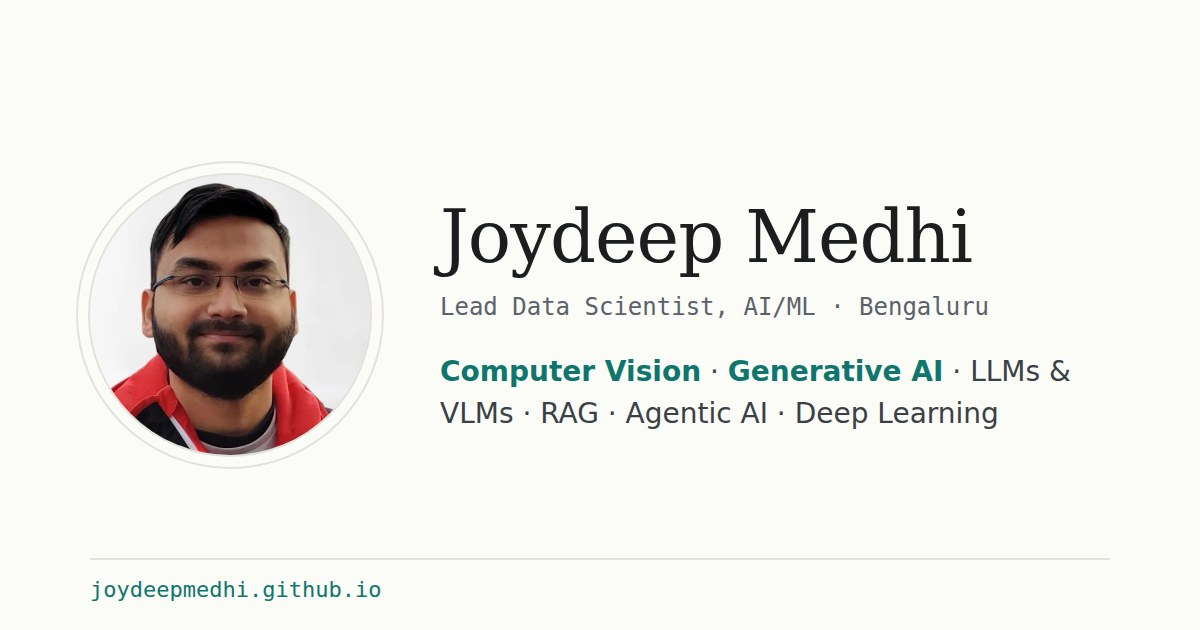
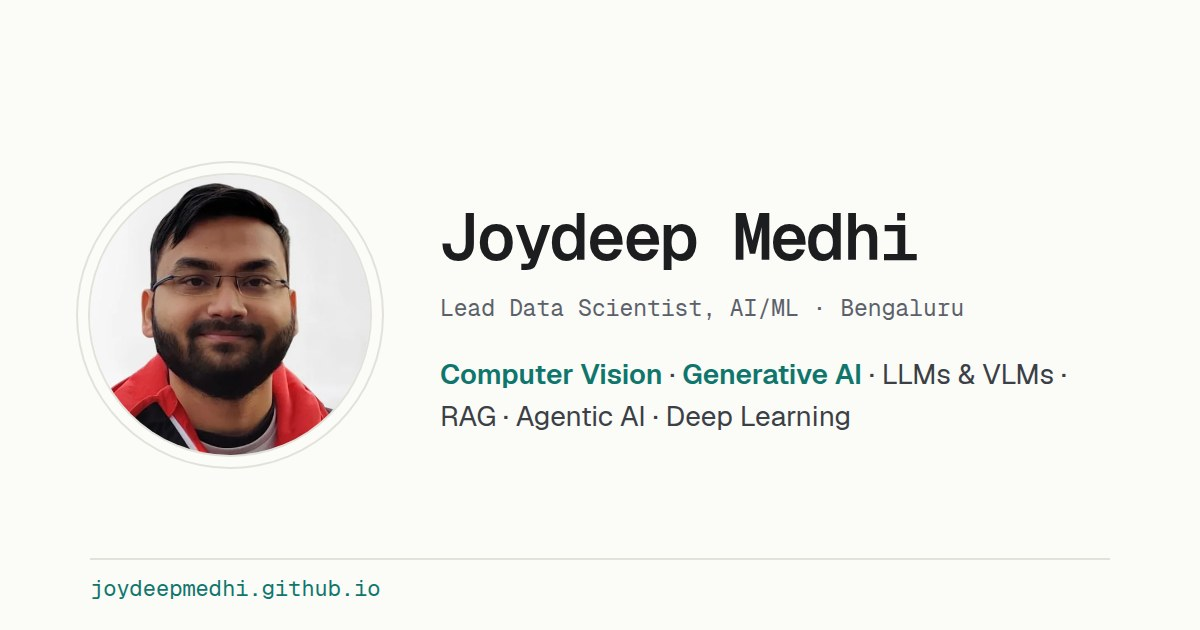
Correct Lowe's details and switch to Geist typography
- Homepage/resume: Lowe's Companies, Inc. (not Innovation Labs) and
  $100M+ business impact
- Type: Geist Mono for headings, wordmark, meta and code; Geist Sans for
  body text. Long list and publication titles stay in Geist Sans for
  readability; display sizes reduced to suit the wider monospace face
- Share card, favicon and app icon redrawn in Geist Mono

Claude-Session: https://claude.ai/code/session_01H8NSv6UnysrgXmKs2veWM4

Changed region(s): [[0.3392, 0.3317, 0.8325, 0.5127], [0.37, 0.573, 0.8942, 0.6937], [0.0617, 0.9048, 0.3083, 0.9651]]

diff --git a/_sass/_tokens.scss b/_sass/_tokens.scss
@@ -41,17 +41,19 @@
 }
 
 :root {
-  --font-serif: "Newsreader", "Iowan Old Style", Georgia, serif;
-  --font-sans: "Inter", system-ui, -apple-system, "Segoe UI", Roboto, sans-serif;
-  --font-mono: "JetBrains Mono", ui-monospace, SFMono-Regular, Menlo, monospace;
+  // Geist superfamily: Geist Mono gives headings a technical, CS character;
+  // Geist Sans keeps long-form reading comfortable.
+  --font-display: "Geist Mono", ui-monospace, SFMono-Regular, Menlo, monospace;
+  --font-sans: "Geist", system-ui, -apple-system, "Segoe UI", Roboto, sans-serif;
+  --font-mono: "Geist Mono", ui-monospace, SFMono-Regular, Menlo, monospace;
 
   --text-xs: 0.78rem;
   --text-sm: 0.88rem;
   --text-base: 1.0625rem;
   --text-lg: 1.2rem;
-  --text-xl: 1.55rem;
-  --text-2xl: 2.1rem;
-  --text-3xl: 2.8rem;
+  --text-xl: 1.4rem;
+  --text-2xl: 1.9rem;
+  --text-3xl: 2.35rem;
 
   --space-1: 0.25rem;
   --space-2: 0.5rem;

diff --git a/_layouts/default.html b/_layouts/default.html
@@ -26,7 +26,7 @@
   <link rel="alternate" type="application/atom+xml" title="{{ site.title }} - Blog" href="{{ '/feed.xml' | relative_url }}">
   <link rel="preconnect" href="https://fonts.googleapis.com">
   <link rel="preconnect" href="https://fonts.gstatic.com" crossorigin>
-  <link href="https://fonts.googleapis.com/css2?family=Inter:wght@400;500;600&family=JetBrains+Mono:wght@400;500&family=Newsreader:opsz,wght@6..72,400;6..72,500;6..72,600&display=swap" rel="stylesheet">
+  <link href="https://fonts.googleapis.com/css2?family=Geist:wght@400;500;600&family=Geist+Mono:wght@400;500;600&display=swap" rel="stylesheet">
   <link rel="stylesheet" href="{{ '/assets/css/main.css' | relative_url }}">
 
   {% include google-analytics.html %}

diff --git a/_sass/_pages.scss b/_sass/_pages.scss
@@ -107,7 +107,10 @@
   h2,
   h3 {
     margin: 0 0 var(--space-1);
-    font-size: 1.35rem;
+    font-family: var(--font-sans);
+    font-size: 1.25rem;
+    font-weight: 600;
+    letter-spacing: -0.01em;
   }
 
   .post-link {
@@ -144,8 +147,8 @@
 
   .post-title {
     margin-bottom: var(--space-3);
-    font-size: var(--text-3xl);
-    line-height: 1.12;
+    font-size: var(--text-2xl);
+    line-height: 1.2;
   }
 
   .post-description {
@@ -188,7 +191,7 @@
 
   h2 {
     margin-top: var(--space-8);
-    font-size: 1.75rem;
+    font-size: 1.5rem;
   }
 
   h3 {

diff --git a/_sass/_layout.scss b/_sass/_layout.scss
@@ -51,10 +51,10 @@
 }
 
 .wordmark {
-  font-family: var(--font-serif);
-  font-size: 1.3rem;
-  font-weight: 500;
-  letter-spacing: -0.01em;
+  font-family: var(--font-display);
+  font-size: 1.05rem;
+  font-weight: 600;
+  letter-spacing: -0.03em;
   color: var(--text);
   text-decoration: none;
   white-space: nowrap;

diff --git a/_sass/_components.scss b/_sass/_components.scss
@@ -205,9 +205,9 @@
 
   h3 {
     margin: 0 0 var(--space-2);
-    font-family: var(--font-serif);
-    font-size: 1.28rem;
-    font-weight: 500;
+    font-family: var(--font-sans);
+    font-size: 1.15rem;
+    font-weight: 600;
     line-height: 1.35;
 
     a {

diff --git a/_sass/_base.scss b/_sass/_base.scss
@@ -40,9 +40,9 @@ h4 {
 
 h1,
 h2 {
-  font-family: var(--font-serif);
-  font-weight: 500;
-  letter-spacing: -0.01em;
+  font-family: var(--font-display);
+  font-weight: 600;
+  letter-spacing: -0.035em;
 }
 
 h1 {

diff --git a/index.md b/index.md
@@ -28,8 +28,8 @@ description: "Lead Data Scientist in Bengaluru building Computer Vision and Gene
 <section class="section prose" aria-labelledby="about">
   <h2 class="section-title" id="about">About</h2>
   <p>
-    At <strong>Lowe's Innovation Labs</strong> I lead R&amp;D in computer vision and GenAI: real-time multi-camera
-    customer tracking with <strong>$1M+ in revenue impact</strong>, and pioneering generative AI solutions built on
+    At <strong>Lowe's Companies, Inc.</strong> I lead R&amp;D in computer vision and GenAI: real-time multi-camera
+    customer tracking with <strong>$100M+ in business impact</strong>, and pioneering generative AI solutions built on
     <strong>vision-language models (VLMs)</strong> and <strong>retrieval-augmented generation (RAG)</strong>.
   </p>
   <p>

diff --git a/resume.md b/resume.md
@@ -22,7 +22,7 @@ permalink: /resume/
 **Lowe's Companies Inc** (Bengaluru, India)
 _LEAD DATA SCIENTIST - AI/ML_ (July 2022 - Present)
 
-*   Led R&D initiatives in Computer Vision and AI solutions for retail, driving $1M+ incremental revenue with estimated $500M enterprise impact
+*   Led R&D initiatives in Computer Vision and AI solutions for retail, driving $100M+ in business impact
 *   Developed customer experience optimization through real-time multi-person tracking and trajectory analysis
 *   Pioneered Generative AI solutions using RAG and VLMs for voice assistants and action recognition
 *   Architected Multi-Camera Multi-Target Tracking (MTMC) systems for enhanced cross-camera tracking
